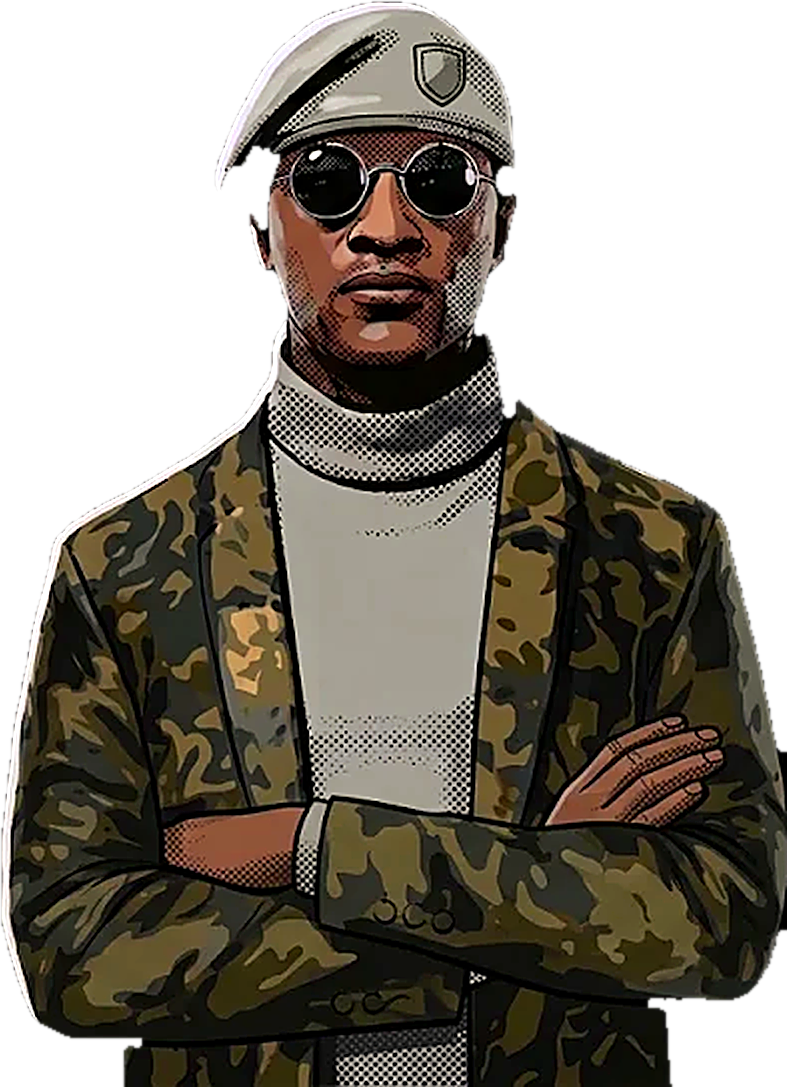
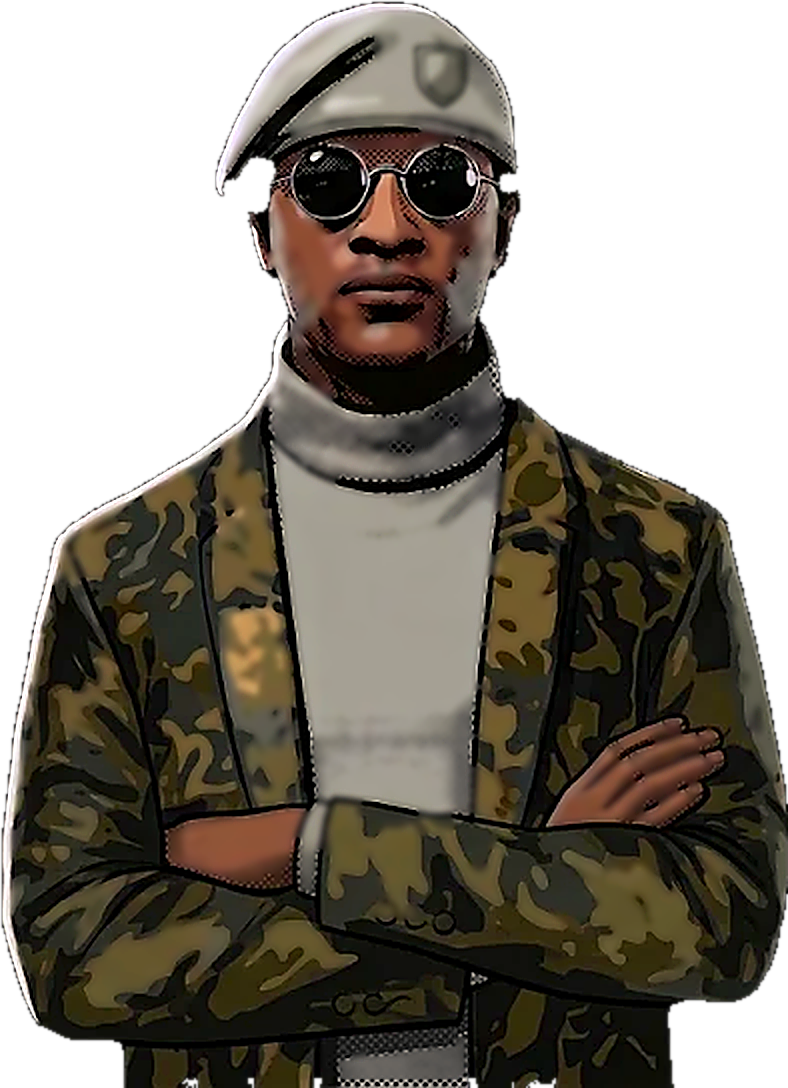
Kit stream : Owen sans trous ni trame, halo fixe comme Malou
- Détourage d'Owen refait : silhouette pleine, contours noirs conservés.
- Trame de points lissée en ton uni (col roulé, béret, visage), traits gardés.
- Bannière du haut : plus de halo violet animé autour du personnage,
  le halo d'origine reste (identique pour Malou, Simba, Communication).

Claude-Session: https://claude.ai/code/session_01KCV1FGWnoVjyFbA24gvaBP

diff --git a/originrp_stream/tiktok/banniere-haut.html b/originrp_stream/tiktok/banniere-haut.html
@@ -41,7 +41,7 @@
         .runner { bottom: 0; }
 
         /* ===== Animation (source Navigateur dans OBS) =====
-           Entrée au chargement (≈ 2 s), puis animation continue. ?intro=0 pour l'enlever. */
+           Entrée au chargement (≈ 2 s), puis animation continue (reflet, lumière, particules ; le halo du personnage reste fixe). ?intro=0 pour l'enlever. */
         .name { position: relative; }
         .name::after {
             /* reflet qui passe sur le pseudo */
@@ -54,14 +54,10 @@
         .anim .name::after { animation: shine 7s ease-in-out 2.4s infinite; }
         @keyframes shine { 0% { background-position: 160% 0; } 30%, 100% { background-position: -60% 0; } }
 
-        .anim .perso { animation: halo 4s ease-in-out infinite; }
-        @keyframes halo {
-            50% { filter: drop-shadow(0 0 30px rgba(139, 92, 246, 0.85)) drop-shadow(0 0 3px rgba(196, 181, 253, 0.7)); }
-        }
         .anim .role span { animation: glow 3.5s ease-in-out infinite; }
         @keyframes glow { 50% { text-shadow: 0 0 26px rgba(139, 92, 246, 0.95); color: #c4b5fd; } }
 
-        .anim:not(.no-intro) .perso { animation: persoIn 1.1s cubic-bezier(0.2, 0.8, 0.2, 1) 0.1s both, halo 4s ease-in-out 1.2s infinite; }
+        .anim:not(.no-intro) .perso { animation: persoIn 1.1s cubic-bezier(0.2, 0.8, 0.2, 1) 0.1s both; }
         .anim:not(.no-intro) .emblem { animation: popIn 0.9s cubic-bezier(0.2, 0.8, 0.2, 1) 0.35s both; }
         .anim:not(.no-intro) .name { animation: riseIn 0.9s cubic-bezier(0.2, 0.8, 0.2, 1) 0.7s both; }
         .anim:not(.no-intro) .role { animation: riseIn 0.8s cubic-bezier(0.2, 0.8, 0.2, 1) 1.05s both; }

diff --git a/originrp_stream/README.md b/originrp_stream/README.md
@@ -66,7 +66,7 @@ Le cadre caméra est en bas à droite : placer la webcam dessous.
 au-dessus du gameplay, avec le personnage, le pseudo et le rôle.
 
 La page est animée (source Navigateur dans OBS, 1080 × 656) : entrée du personnage, du logo, du pseudo et du poste
-au chargement (≈ 2 s), puis halo du personnage qui respire, reflet sur le pseudo, lumière qui court sur le filet du bas,
+au chargement (≈ 2 s), puis reflet sur le pseudo, lumière qui court sur le filet du bas,
 anneaux du logo qui tournent et particules. `&intro=0` affiche directement le visuel sans l'entrée.
 
 Owen : `tiktok/banniere-haut.html?nom=Owen&role=Co-fondateur d'Origin RP&perso=owen.png`.
